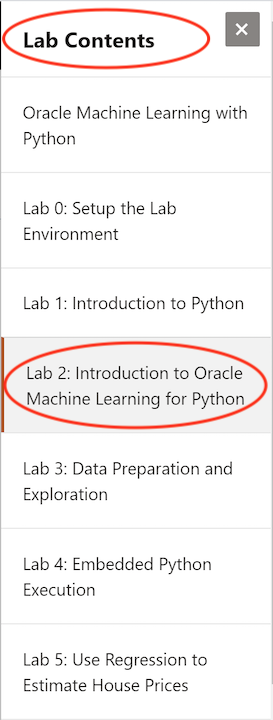
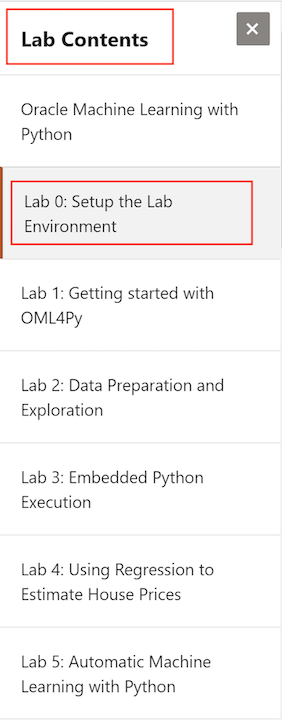
Refresh

diff --git a/about-this-lab/content.md b/about-this-lab/content.md
@@ -1,8 +1,8 @@
 # Oracle Machine Learning with Python Workshop
 
-**Artificial Intelligence (AI)** and **Machine Learning (ML)** have become increasingly necessary for enterprises to translate today's data into direct business value. This course introduces learners to the basic concepts of AI/ML, using a mix of engaging lectures and hands-on activities to help you navigate the first steps in this exciting field. The exercises present real world use cases that show how Oracle is actively helping companies maximize business benefits through AI and ML.
+**Artificial Intelligence** and **Machine Learning** have become increasingly necessary for enterprises to translate today's data into direct business value. This course introduces learners to the basic concepts of AI/ML, using a mix of engaging lectures and hands-on activities to help you navigate the first steps in this exciting field. The exercises present real world use cases that show how Oracle is actively helping companies maximize business benefits through AI and ML.
 
-This hands-on workshop focuses on Oracle Machine Learning for Python (OML4Py) which enables AI and ML capabilities of the Oracle Database in conjunction with the popular Python programming language and Jupyter notebooks.  You will learn to apply machine learning concepts and algorithms to solve real-world problems ranging from data acquisition and feature engineering, to creating ML models and tuning for optimal results.
+This hands-on workshop focuses on **Oracle Machine Learning for Python (OML4Py)** which enables AI and ML capabilities of the Oracle Database in conjunction with the popular Python programming language and Jupyter notebooks.  You will learn to apply machine learning concepts and algorithms to solve real-world problems ranging from data acquisition and feature engineering, to creating ML models and tuning for optimal results.
 
 ## Workshop Requirements
 
@@ -19,27 +19,23 @@ This hands-on workshop focuses on Oracle Machine Learning for Python (OML4Py) wh
 
 This lab introduces the student lab environment and contains the steps to setup the student desktop for connecting to the lab virtual machine.
 
-- **Lab 1 :** Introduction to Python
-
-Get introduced to Python and Jupyter. Learn to work with basic python constructs and Pandas DataFrames objects.
-
-- **Lab 2 :** Introduction to Oracle Machine Learning for Python
+- **Lab 1 :** Introduction to Oracle Machine Learning for Python
 
 Oracle Machine Learning for Python (OML4Py) is a component of the Oracle Database Enterprise Edition that makes open source Python ready for the enterprise and big data. OML4Py integrates Python with the Oracle Database and provides a comprehensive, database-centric environment for end-to-end analytical processing. In this lab, the student will learn to use OML4Py to connect to the Oracle Database, move data between Python and the database, and store Python objects in the database.
 
-- **Lab 3 :** Data Preparation and Exploration
+- **Lab 2 :** Data Preparation and Exploration
 
 Learn to perform exploratory data analysis of database-resident data and apply best practice techniques to prepare the data for machine learning. This hands-on lab highlights the OML4py Transparency Layer, and demonstrates that many familiar Python functions automatically translate to SQL and run inside the database for optimal performance and execution.
 
-- **Lab 4 :** Embedded Python Execution
+- **Lab 3 :** Embedded Python Execution
 
 Embedded Python Execution, a feature of Oracle Machine Learning for Python, gives you the ability to invoke user-defined Python functions in Python engines that run on the Oracle Database server. Learn to store Python code in the database for reuse and sharing, and to invoke third-party Python packages for machine learning on the database server.
 
-- **Lab 5 :** Use Regression to Estimate House Prices
+- **Lab 4 :** Use Regression to Estimate House Prices
 
 Explore the CA housing prices dataset and build machine learning models for predicting house prices in the state of California. The lab walks through a real-world use case and the steps to apply an AI/ML solution for building accurate prediction models.
 
-- **Lab 6 :** Use AutoML for Automatic Feature and Model Selection
+- **Lab 5 :** Use AutoML for Automatic Feature and Model Selection
 
 Automate end-to-end process of applying machine learning to real-world problems using the emerging AutoML techniques. In this lab you will use the automatic feature selection, model selection, and hyperparameter tuning of AutoML, a feature of OML4Py.
 
@@ -48,7 +44,7 @@ Automate end-to-end process of applying machine learning to real-world problems 
 - Use **Lab Contents** menu on your right to access the labs.
     - If the menu is not displayed, click the menu button ![](./images/menu-button.png) on the top right  make it visible.
 
-- From the menu, click on the lab that you like to proceed with. For example, if you like to proceed to **Lab 2**, click **Lab 2: Introduction to Oracle Machine Learning for Python**.
+- From the menu, click on the lab that you like to proceed with. For example, if you like to proceed to **Lab 0**, click **Lab 0: Setup the Lab Environment**.
 
 ![](./images/menu.png "")
 

diff --git a/README.md b/README.md
@@ -1,21 +1,38 @@
-# Welcome to Oracle Machine Learning with Python Workshop
-This workshop lets you practice the main features of Oracle Machine Learning, including Activity Auditing, Data Discovery, Data Masking, User Assessment, and Security Assessment.
+# Oracle Machine Learning with Python Workshop
+
+**Artificial Intelligence** and **Machine Learning** have become increasingly necessary for enterprises to translate today's data into direct business value. This course introduces learners to the basic concepts of AI/ML, using a mix of engaging lectures and hands-on activities to help you navigate the first steps in this exciting field. The exercises present real world use cases that show how Oracle is actively helping companies maximize business benefits through AI and ML.
+
+This hands-on workshop focuses on **Oracle Machine Learning for Python (OML4Py)** which enables AI and ML capabilities of the Oracle Database in conjunction with the popular Python programming language and Jupyter notebooks.  You will learn to apply machine learning concepts and algorithms to solve real-world problems ranging from data acquisition and feature engineering, to creating ML models and tuning for optimal results.
+
+## Workshop Requirements
+
+* Access to Oracle Cloud Infrastructure
+    * Provided by the instructor for instructor-led workshops
+* Access to a laptop or a desktop
+    * Requires Microsoft Remote Desktop software
+* Knowledge of Python is a plus but not required
+* No previous knowledge of machine learning required
 
 ## Access the Labs Using Our Web Interface
-**[Click here](https://oracle.github.io/learning-library/data-management-library/security/data-safe-HOL)** to use our easy to navigate HTML format.
+
+**[Click here](https://oracle.github.io/learning-library/data-management-library/oracle-machine-learning/OML4Py-HOL)** to use our easy to navigate HTML format.
 
 ## Access the Labs on the Repo
-Alternatively, you can follow the labs on this repo:
+
+Alternatively, you can follow the labs on this repo :
+
 - [About this lab](./about-this-lab/content.md)
-- [View a Registered Target Database](./view-registered-target-db/content.md)
-- [Provision Audit and Alert Policies](./provision-audit-alert-policies/content.md)
-- [Assess Database Configurations and Users](./assess-db-config-users/content.md)
-- [Analyze Alerts and Audit Reports](./analyze-alerts-audit-reports/content.md)
-- [Discover and Mask Sensitive Data](./discover-mask-data/content.md)
+- [Setup the Lab Environment](./lab-setup/content.md)
+- [Getting Started with OML4Py](./intro-oml4py/content.md)
+- [Data Preparation and Exploration](./data-preparation-exploration/content.md)
+- [Embedded Python Execution](./embedded-python/content.md)
+- [Using Regression to Estimate House Prices](./regression-use-case/content.md)
+- [Automatic Machine Learning with Python](./automl-python/content.md)
 
 ## Oracle Cloud Account
 
 ### Trial Account
+
 If you don't have an Oracle Cloud account then you can quickly and easily sign up for a free trial account that provides:
 - $300 of free credits good for up to 3500 hours of Oracle Cloud usage
 - Credits can be used on all eligible Cloud Platform and Infrastructure services for the next 30 days
@@ -23,5 +40,8 @@ If you don't have an Oracle Cloud account then you can quickly and easily sign u
 
 Click here to request your trial account: https://cloud.oracle.com/tryit
 
-### Self-Paced Labs
-Self-paced labs provide hands-on experience with Oracle Cloud Infrastructure in real cloud environments. You can try self-paced labs here: https://ocitraining.qloudable.com/
+## Learn More about Oracle Machine learning
+
+- [Oracle Artificial Ingelligence](https://www.oracle.com/artificial-intelligence/)
+- [Getting Started with Oracle Machine Learning](https://docs.oracle.com/en/cloud/paas/autonomous-data-warehouse-cloud/omlug/get-started-oracle-machine-learning.html#GUID-2AEC56A4-E751-48A3-AAA0-0659EDD639BA)
+- [Oracle Machine Learning Solutions](https://www.oracle.com/artificial-intelligence/what-is-machine-learning.html)

diff --git a/lab-setup/content.md b/lab-setup/content.md
@@ -6,8 +6,6 @@ The VM is accessed from a local desktop or a laptop through a public IP address 
 
 Follow the steps outlined in this lab to setup your lab environment.
 
->**Note**
->
 >If this is an **instructor-led** workshop, the attendees will be assigned a lab VM by the instructor (one per attendee) and its IP Address and login credentials will be shared.
 >
 >If this is a **self-paced** workshop, or if you plan on using your own Oracle Cloud tenancy/account, this lab provides instructions for provisioning a lab VM in your tenancy.
